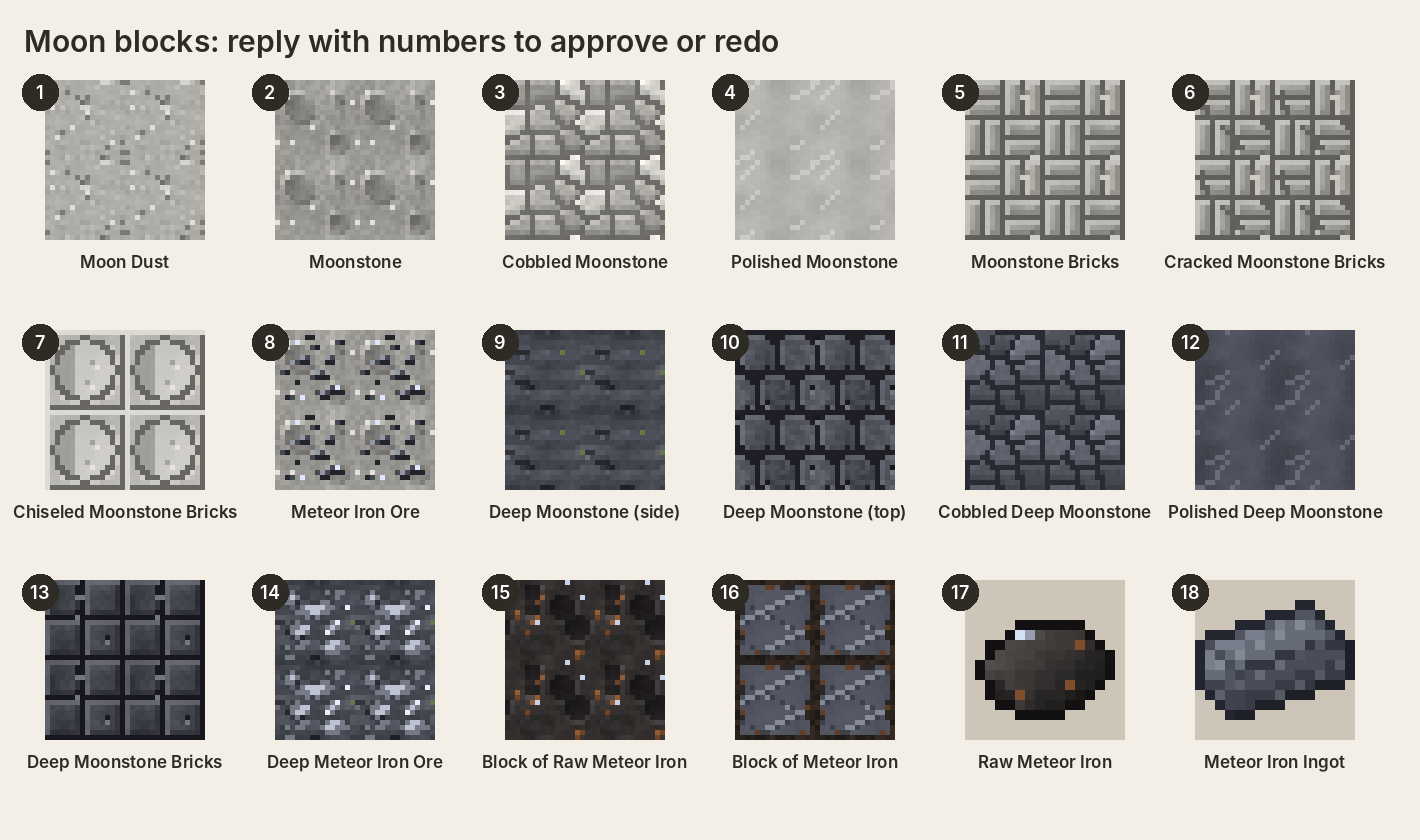
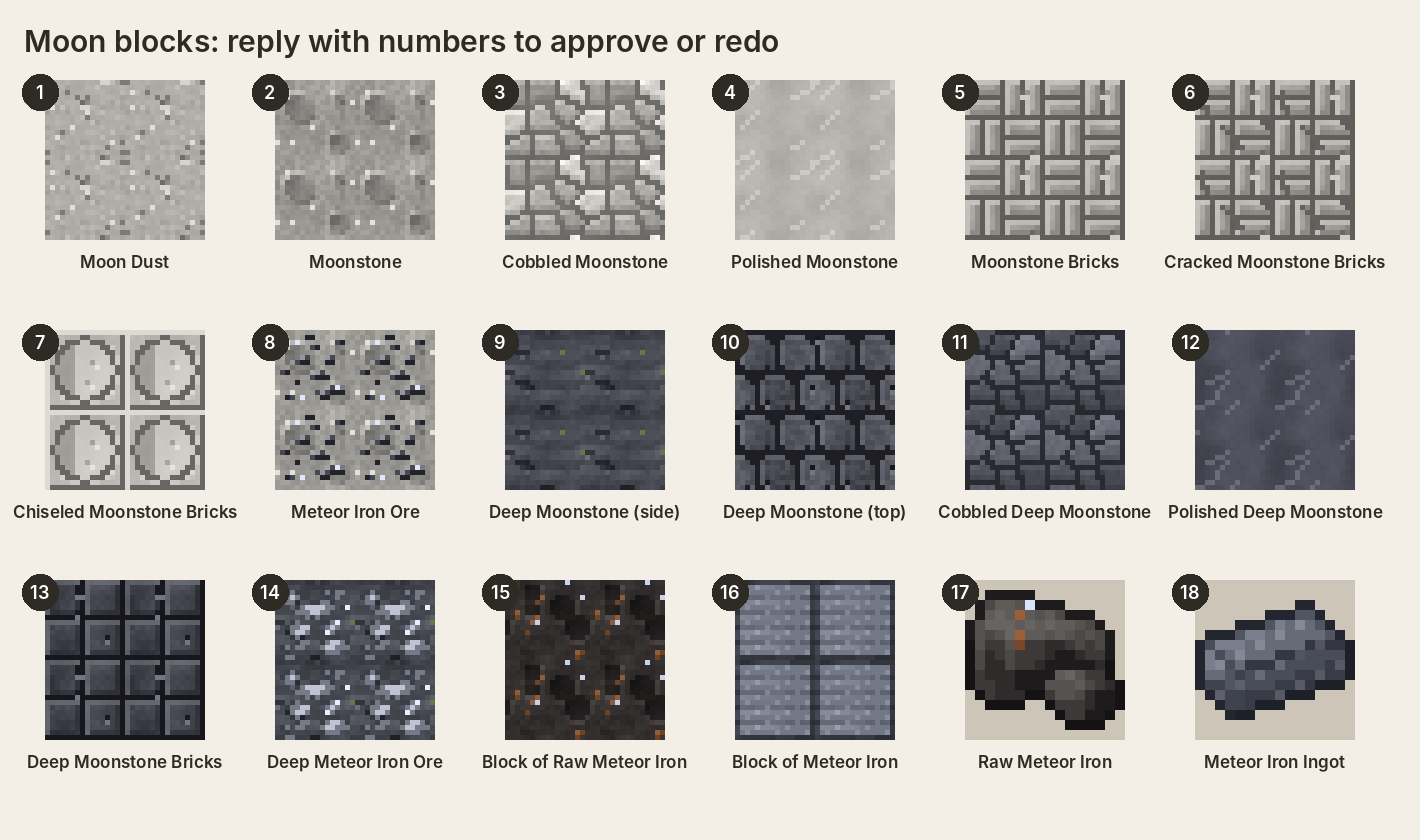
Meteor iron: block follows vanilla's iron block and raw lump vanilla's raw iron, in meteor iron colours
Also tools/moon_chart.py for the numbered approval chart.

Claude-Session: https://claude.ai/code/session_01M5QtgiQGYPBXfdb72XCowG

Changed region(s): [[0.4958, 0.681, 0.6507, 0.8976], [0.6817, 0.681, 0.8056, 0.8667]]

diff --git a/tools/moon_chart.py b/tools/moon_chart.py
@@ -1,0 +1,37 @@
+"""The numbered moon block chart (docs/moon_blocks.png), for approving textures by number.
+  python3 tools/moon_chart.py"""
+import os
+from PIL import Image, ImageDraw, ImageFont
+HERE = os.path.dirname(os.path.abspath(__file__)); T = os.path.join(HERE, "..", "src", "main", "resources", "assets", "ryancraft", "textures")
+ITEMS = [("Moon Dust", "block/moon_dust"), ("Moonstone", "block/moonstone"), ("Cobbled Moonstone", "block/cobbled_moonstone"),
+         ("Polished Moonstone", "block/polished_moonstone"), ("Moonstone Bricks", "block/moonstone_bricks"),
+         ("Cracked Moonstone Bricks", "block/cracked_moonstone_bricks"), ("Chiseled Moonstone Bricks", "block/chiseled_moonstone_bricks"),
+         ("Meteor Iron Ore", "block/meteor_iron_ore"), ("Deep Moonstone (side)", "block/deep_moonstone"), ("Deep Moonstone (top)", "block/deep_moonstone_top"),
+         ("Cobbled Deep Moonstone", "block/cobbled_deep_moonstone"), ("Polished Deep Moonstone", "block/polished_deep_moonstone"),
+         ("Deep Moonstone Bricks", "block/deep_moonstone_bricks"), ("Deep Meteor Iron Ore", "block/deep_meteor_iron_ore"),
+         ("Block of Raw Meteor Iron", "block/raw_meteor_iron_block"), ("Block of Meteor Iron", "block/meteor_iron_block"),
+         ("Raw Meteor Iron", "item/raw_meteor_iron"), ("Meteor Iron Ingot", "item/meteor_iron_ingot")]
+
+def font(sz, bold=False):
+    for f in (["/usr/share/fonts/opentype/inter/Inter-SemiBold.otf"] if bold else ["/usr/share/fonts/opentype/inter/Inter-Regular.otf"]) + ["/usr/share/fonts/truetype/dejavu/DejaVuSans.ttf"]:
+        if os.path.exists(f): return ImageFont.truetype(f, sz)
+    return ImageFont.load_default()
+
+if __name__ == "__main__":
+    CW, CH, TS, cols = 230, 250, 160, 6; rows = (len(ITEMS) + cols - 1) // cols
+    img = Image.new("RGB", (cols * CW + 40, rows * CH + 90), (243, 239, 230)); d = ImageDraw.Draw(img)
+    d.text((24, 22), "Moon blocks: reply with numbers to approve or redo", font=font(30, True), fill=(46, 42, 36))
+    for k, (name, path) in enumerate(ITEMS):
+        x = 20 + (k % cols) * CW; y = 80 + (k // cols) * CH
+        t = Image.open(os.path.join(T, path + ".png")).convert("RGBA")
+        if path.startswith("block"):
+            tile = Image.new("RGBA", (32, 32))
+            for a in (0, 16):
+                for b in (0, 16): tile.paste(t, (a, b))
+            big = tile.resize((TS, TS), Image.NEAREST)
+        else:
+            bg = Image.new("RGBA", (16, 16), (205, 198, 184, 255)); bg.alpha_composite(t); big = bg.resize((TS, TS), Image.NEAREST)
+        img.paste(big.convert("RGB"), (x + (CW - TS) // 2 - 10, y))
+        d.ellipse((x + 2, y - 6, x + 38, y + 30), fill=(46, 42, 36)); d.text((x + 20, y + 12), str(k + 1), font=font(18, True), fill=(255, 255, 255), anchor="mm")
+        d.text((x + CW // 2 - 10, y + TS + 22), name, font=font(17, True), fill=(46, 42, 36), anchor="mm")
+    img.save(os.path.join(HERE, "..", "docs", "moon_blocks.png")); print("chart ok")

diff --git a/tools/moon_assets.py b/tools/moon_assets.py
@@ -454,9 +454,19 @@ def textures():
     vesicles(tiles(rock(57, *BASALT, 0.2), 8, (124, 126, 136), (34, 34, 40), (22, 22, 28)), 58, 3, (24, 24, 30), (116, 118, 128)).save(os.path.join(b, "deep_moonstone_bricks.png"))
     ore(deep, dt("deepslate"), dt("deepslate_iron_ore"), (60, 62, 70), (118, 122, 134), (190, 196, 212), (232, 240, 255), 17).save(os.path.join(b, "deep_meteor_iron_ore.png"))
     # meteor iron, all original: an etched meteorite slab, thumbprinted fusion crust, a meteorite lump and a bar
-    meteor_slab(60).save(os.path.join(b, "meteor_iron_block.png"))
+    # the block follows vanilla's iron block (bevelled plate), in the ingot's gunmetal with the same faint band etch
+    blk = mapped(cb("iron_block"), (44, 46, 54), (132, 138, 154)); pb = blk.load()
+    for y in range(16):
+        for x in range(16):
+            if 1 <= x <= 14 and 1 <= y <= 14 and (x + 2 * y) % 6 == 0: pb[x, y] = tuple(min(255, c + 22) for c in pb[x, y][:3]) + (255,)
+    blk.save(os.path.join(b, "meteor_iron_block.png"))
     meteor_crust(61).save(os.path.join(b, "raw_meteor_iron_block.png"))
-    lump_sprite(62).save(os.path.join(i, "raw_meteor_iron.png"))
+    # raw meteor iron follows vanilla's raw iron shape: dark meteorite tones, rust spots and a glint
+    lump = item_map(os.path.join(TPL, "textures", "item", "raw_iron.png"), (20, 18, 18), (104, 100, 98))
+    rust(lump, random.Random(62), 3, [(122, 72, 40), (152, 96, 54)]); lp = lump.load()
+    best = max(((x, y) for y in range(16) for x in range(16) if lp[x, y][3]), key=lambda p: sum(lp[p[0], p[1]][:3]))
+    lp[best[0], best[1]] = (218, 228, 248, 255)
+    lump.save(os.path.join(i, "raw_meteor_iron.png"))
     # the ingot keeps vanilla's ingot shape (so it reads as an ingot), in dark gunmetal with a faint etch of the bands
     ingot = item_map(os.path.join(CLASSIC, "item", "iron_ingot.png"), *IRON); pi = ingot.load()
     for y in range(16):
